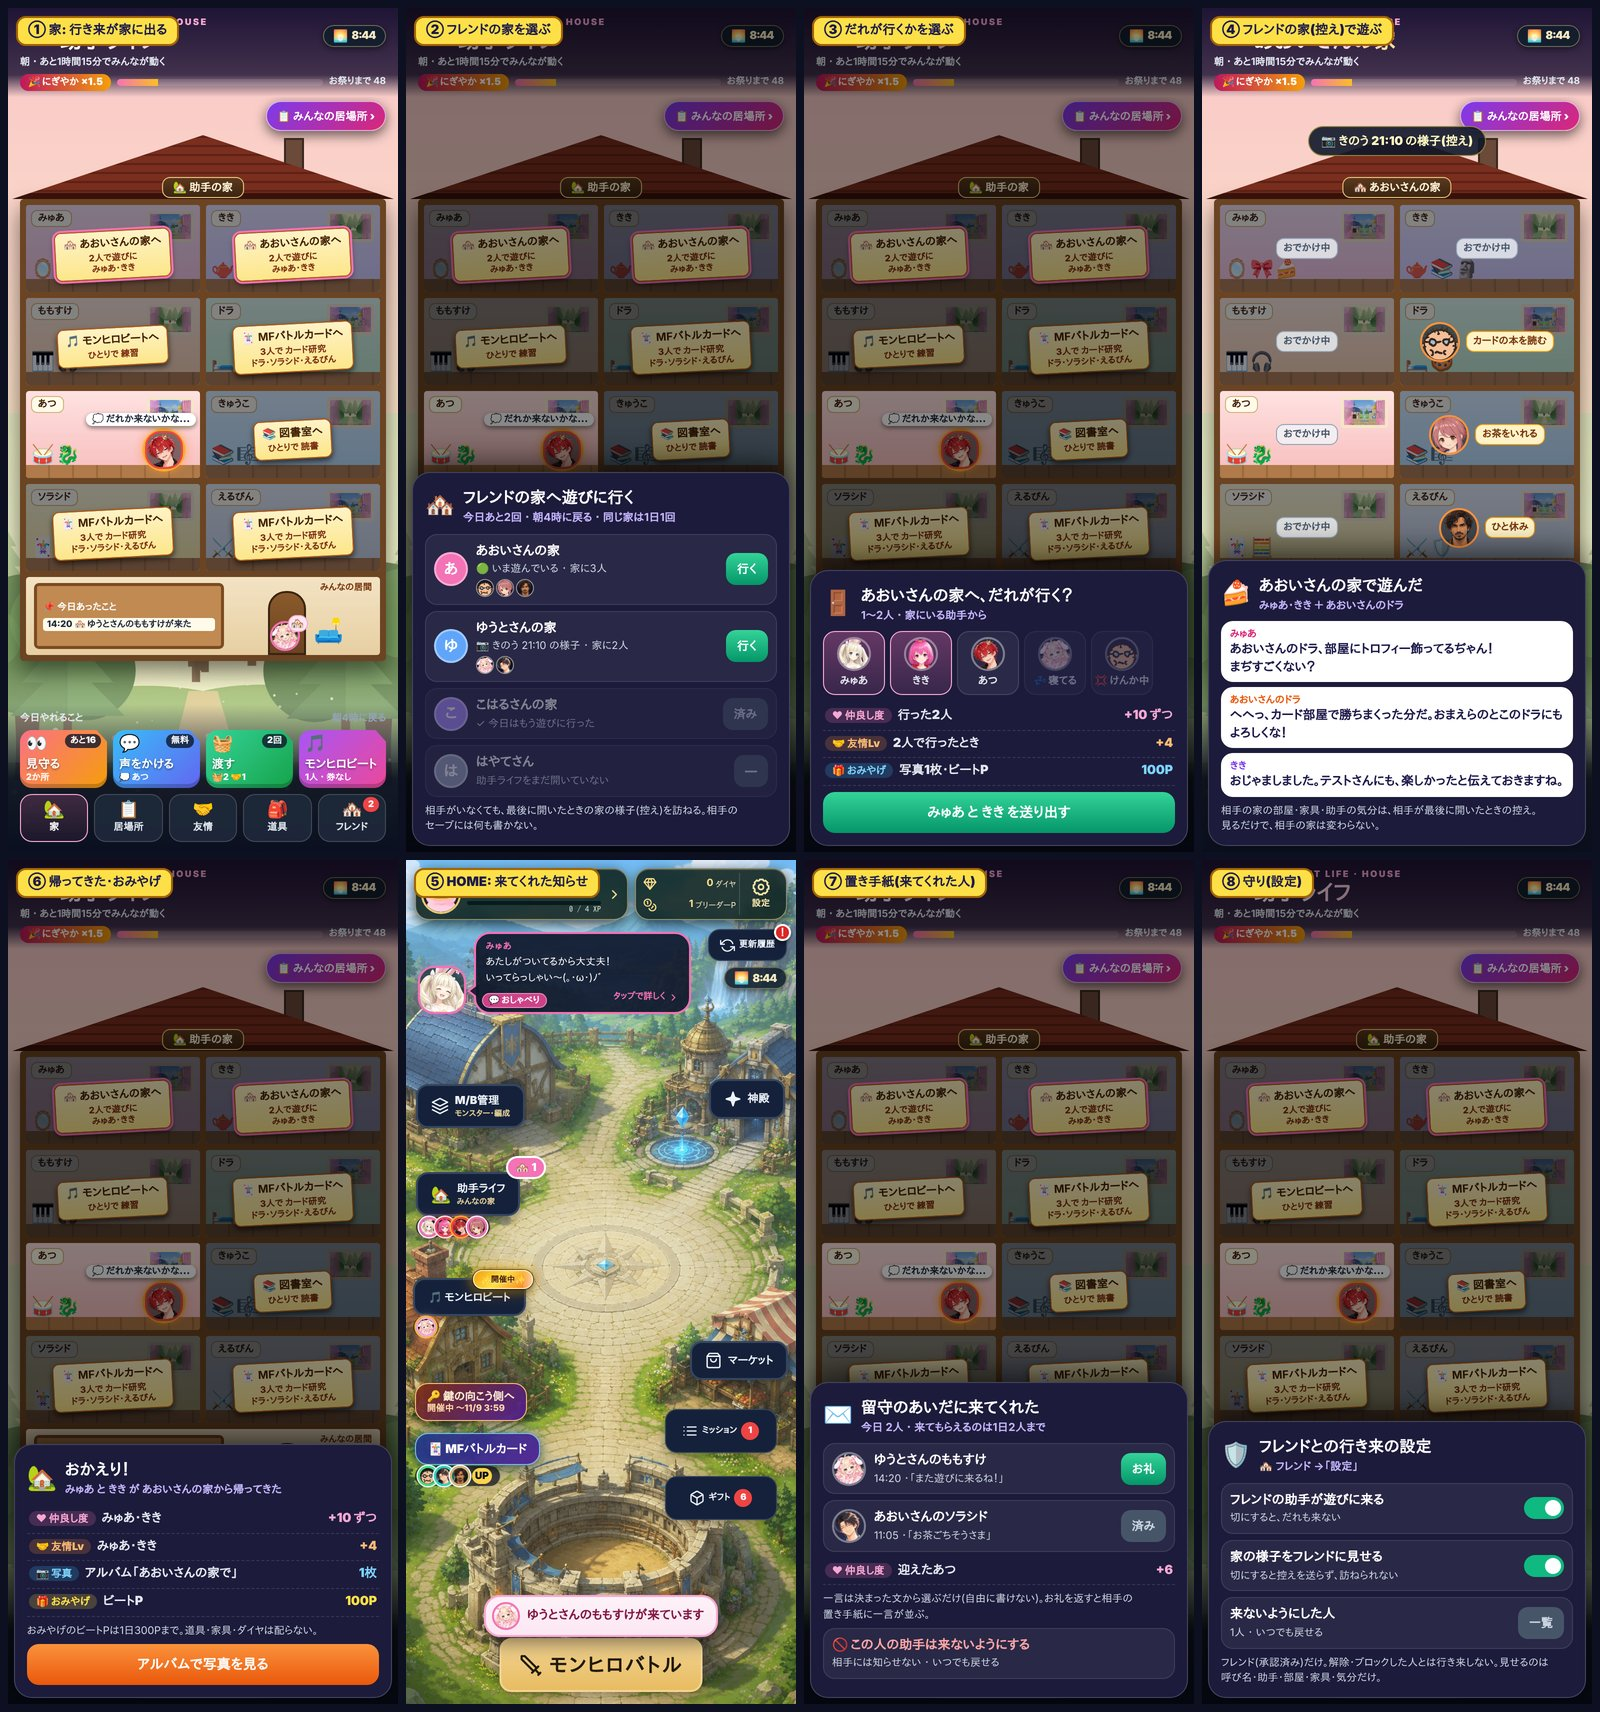
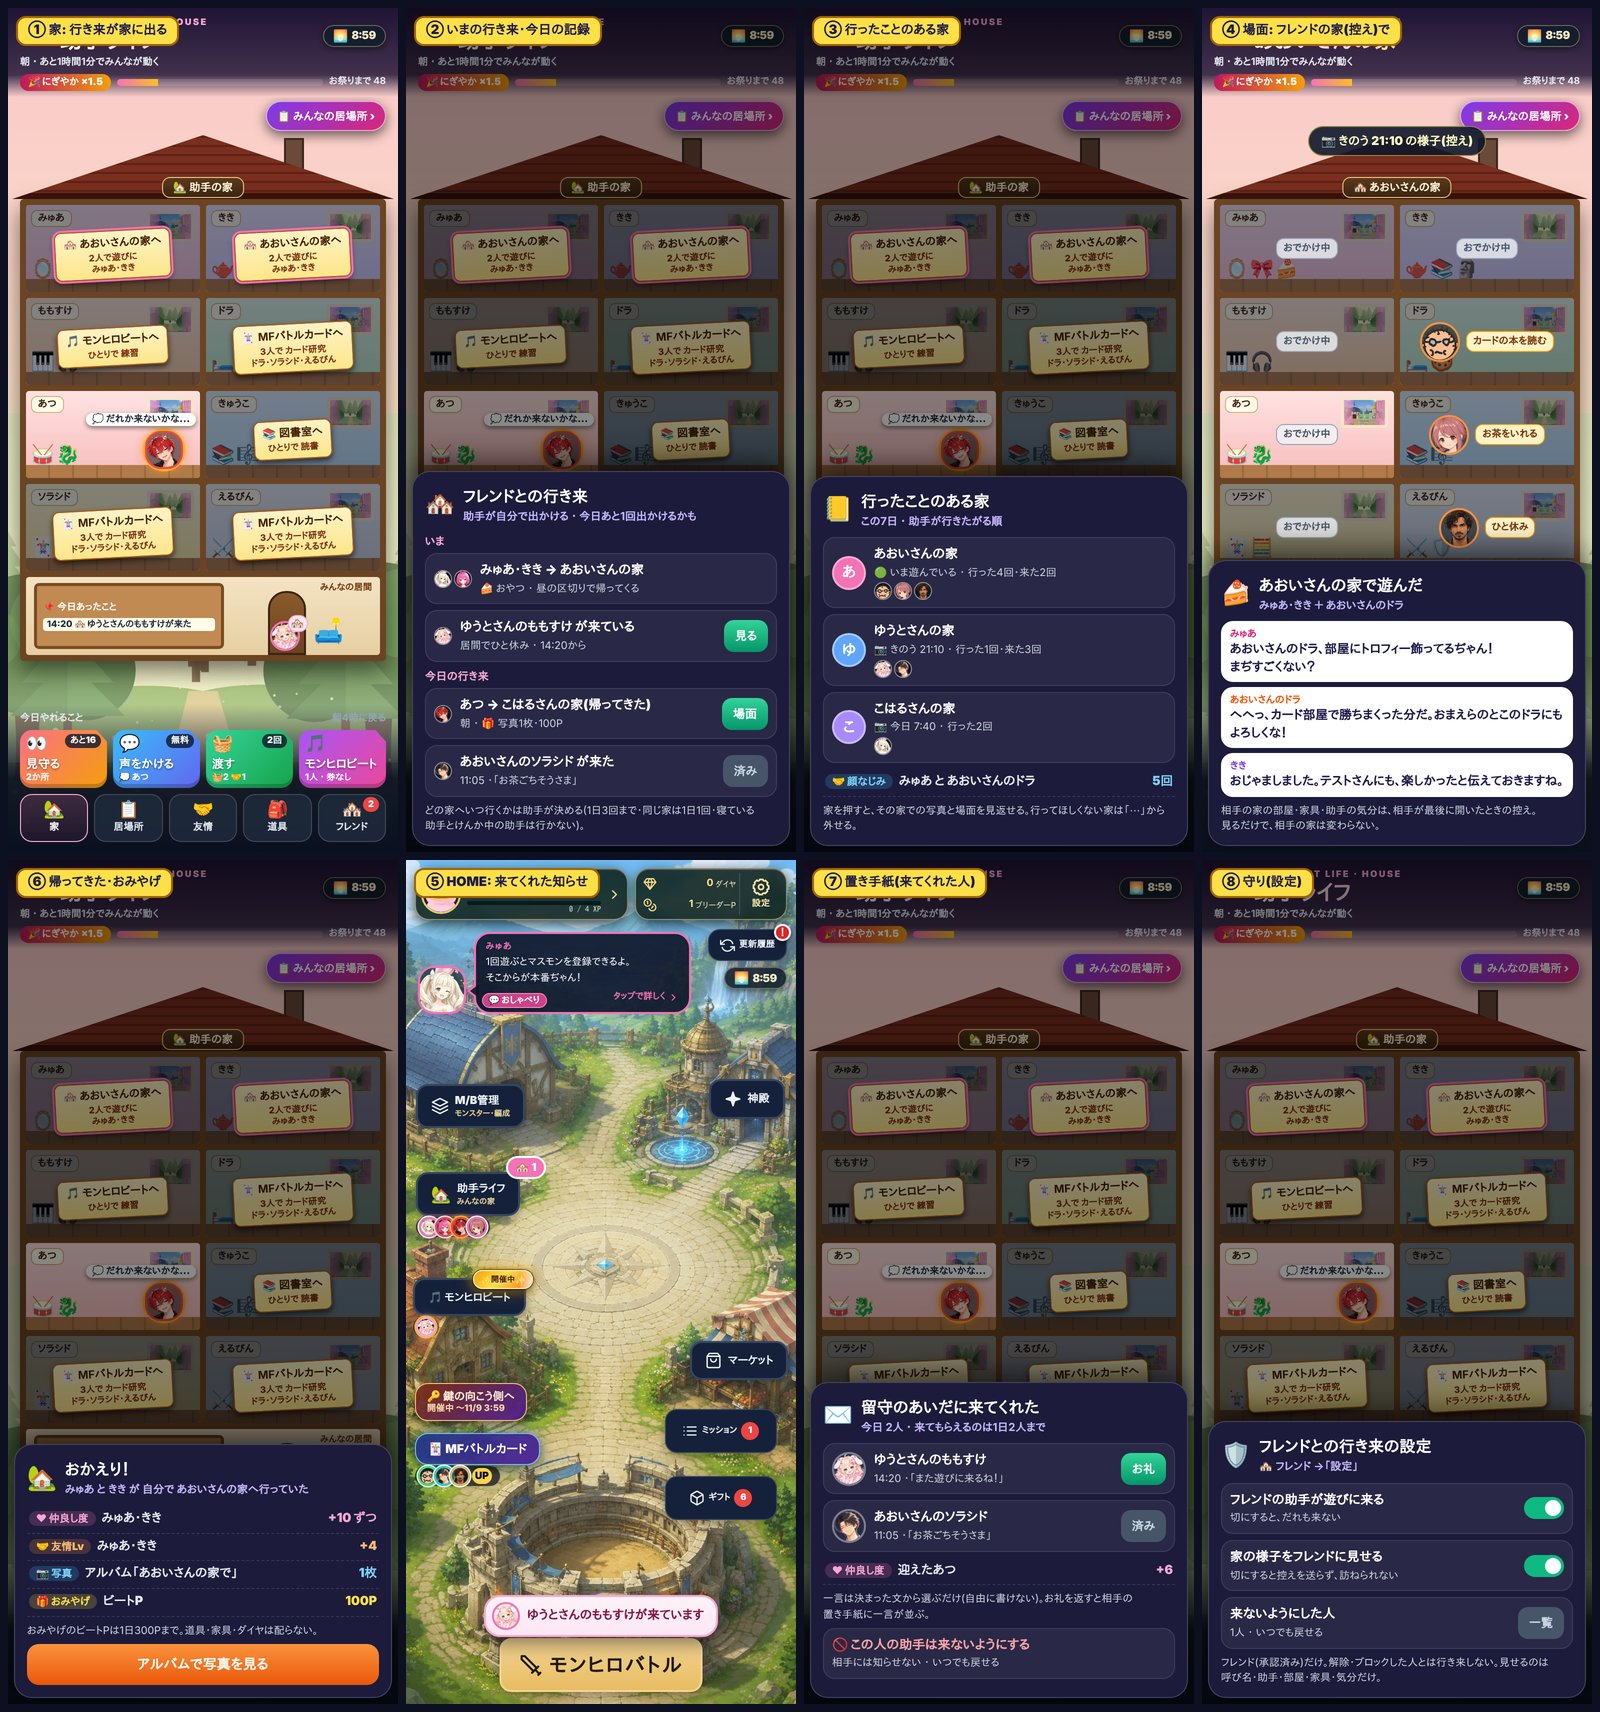
助手ライフ: フレンドの行き来の案に社長の選び(❷ B 助手が自分で行く)を入れ、止め絵②③を作り直す
Claude-Session: https://claude.ai/code/session_0113GBaCzXLfSE2mAxwtDgRg

diff --git a/docs/progress/assistant-peer/friend/shoot.js b/docs/progress/assistant-peer/friend/shoot.js
@@ -57,27 +57,23 @@ const face = (id) => `<img src="${'__F_' + id}">`;
 const av = (ch, c) => `<span class="fv-av" style="background:${c}">${ch}</span>`;
 html.pick = (land) => `
 <div class="fv-sheet" style="${land ? 'left:auto;right:6px;top:6px;width:430px' : ''}">
-  <div class="fv-h"><i>🏘</i><div><b>フレンドの家へ遊びに行く</b><small>今日あと2回 ・ 朝4時に戻る ・ 同じ家は1日1回</small></div></div>
-  <div class="fv-row">${av('あ', '#f472b6')}<div class="fv-mid"><b>あおいさんの家</b><small>🟢 いま遊んでいる ・ 家に3人</small><div class="fv-faces">${face('dra')}${face('kyuko')}${face('erubin')}</div></div><span class="fv-btn">行く</span></div>
-  <div class="fv-row">${av('ゆ', '#60a5fa')}<div class="fv-mid"><b>ゆうとさんの家</b><small>📷 きのう 21:10 の様子 ・ 家に2人</small><div class="fv-faces">${face('momosuke')}${face('sorashido')}</div></div><span class="fv-btn">行く</span></div>
-  <div class="fv-row off">${av('こ', '#a78bfa')}<div class="fv-mid"><b>こはるさんの家</b><small>✓ 今日はもう遊びに行った</small></div><span class="fv-btn gray">済み</span></div>
-  ${land ? '' : `<div class="fv-row off">${av('は', '#94a3b8')}<div class="fv-mid"><b>はやてさん</b><small>助手ライフをまだ開いていない</small></div><span class="fv-btn gray">—</span></div>`}
-  <div class="fv-note">相手がいなくても、最後に開いたときの家の様子(控え)を訪ねる。相手のセーブには何も書かない。</div>
+  <div class="fv-h"><i>🏘</i><div><b>フレンドとの行き来</b><small>助手が自分で出かける ・ 今日あと1回出かけるかも</small></div></div>
+  <div style="font-size:11px;font-weight:900;color:#f9a8d4;margin:2px 0 4px">いま</div>
+  <div class="fv-row"><div class="fv-faces" style="margin:0">${face('mua')}${face('kiki')}</div><div class="fv-mid"><b>みゅあ・きき → あおいさんの家</b><small>🍰 おやつ ・ 昼の区切りで帰ってくる</small></div></div>
+  <div class="fv-row"><div class="fv-faces" style="margin:0">${face('momosuke')}</div><div class="fv-mid"><b>ゆうとさんのももすけ が来ている</b><small>居間でひと休み ・ 14:20から</small></div><span class="fv-btn">見る</span></div>
+  <div style="font-size:11px;font-weight:900;color:#f9a8d4;margin:6px 0 4px">今日の行き来</div>
+  <div class="fv-row"><div class="fv-faces" style="margin:0">${face('atsu')}</div><div class="fv-mid"><b>あつ → こはるさんの家(帰ってきた)</b><small>朝 ・ 🎁 写真1枚・100P</small></div><span class="fv-btn">場面</span></div>
+  ${land ? '' : `<div class="fv-row"><div class="fv-faces" style="margin:0">${face('sorashido')}</div><div class="fv-mid"><b>あおいさんのソラシド が来た</b><small>11:05 ・「お茶ごちそうさま」</small></div><span class="fv-btn gray">済み</span></div>`}
+  <div class="fv-note">どの家へいつ行くかは助手が決める(1日3回まで・同じ家は1日1回・寝ている助手とけんか中の助手は行かない)。</div>
 </div>`;
 html.who = (land) => `
 <div class="fv-sheet" style="${land ? 'left:auto;right:6px;top:6px;width:430px' : ''}">
-  <div class="fv-h"><i>🚪</i><div><b>あおいさんの家へ、だれが行く？</b><small>1〜2人 ・ 家にいる助手から</small></div></div>
-  <div class="fv-chips">
-    <span class="fv-chip on">${face('mua')}みゅあ</span><span class="fv-chip on">${face('kiki')}きき</span>
-    <span class="fv-chip">${face('atsu')}あつ</span><span class="fv-chip off">${face('momosuke')}💤 寝てる</span>
-    <span class="fv-chip off">${face('dra')}💢 けんか中</span>
-  </div>
-  <div style="margin-top:8px">
-    <div class="fv-gain"><span><em style="background:#f472b633" class="fv-pink">♥ 仲良し度</em>行った2人</span><span class="fv-pink">+10 ずつ</span></div>
-    <div class="fv-gain"><span><em style="background:#fb923c33" class="fv-orange">🤝 友情Lv</em>2人で行ったとき</span><span class="fv-orange">+4</span></div>
-    <div class="fv-gain"><span><em style="background:#38bdf833" class="fv-sky">🎁 おみやげ</em>写真1枚・ビートP</span><span class="fv-sky">100P</span></div>
-  </div>
-  <span class="fv-big">みゅあ と きき を送り出す</span>
+  <div class="fv-h"><i>📒</i><div><b>行ったことのある家</b><small>この7日 ・ 助手が行きたがる順</small></div></div>
+  <div class="fv-row">${av('あ', '#f472b6')}<div class="fv-mid"><b>あおいさんの家</b><small>🟢 いま遊んでいる ・ 行った4回・来た2回</small><div class="fv-faces">${face('dra')}${face('kyuko')}${face('erubin')}</div></div></div>
+  <div class="fv-row">${av('ゆ', '#60a5fa')}<div class="fv-mid"><b>ゆうとさんの家</b><small>📷 きのう 21:10 ・ 行った1回・来た3回</small><div class="fv-faces">${face('momosuke')}${face('sorashido')}</div></div></div>
+  <div class="fv-row">${av('こ', '#a78bfa')}<div class="fv-mid"><b>こはるさんの家</b><small>📷 今日 7:40 ・ 行った2回</small><div class="fv-faces">${face('mua')}</div></div></div>
+  <div class="fv-gain"><span><em style="background:#38bdf833" class="fv-sky">🤝 顔なじみ</em>みゅあ と あおいさんのドラ</span><span class="fv-sky">5回</span></div>
+  <div class="fv-note">家を押すと、その家での写真と場面を見返せる。行ってほしくない家は「⋯」から外せる。</div>
 </div>`;
 html.visit = (land) => `
 <div class="fv-banner" style="${land ? 'top:12px;left:300px' : 'top:118px'}">📷 きのう 21:10 の様子(控え)</div>
@@ -90,7 +86,7 @@ html.visit = (land) => `
 </div>`;
 html.back = (land) => `
 <div class="fv-sheet" style="${land ? 'left:auto;right:6px;top:6px;width:430px' : ''}">
-  <div class="fv-h"><i>🏡</i><div><b>おかえり！</b><small>みゅあ と きき が あおいさんの家から帰ってきた</small></div></div>
+  <div class="fv-h"><i>🏡</i><div><b>おかえり！</b><small>みゅあ と きき が 自分で あおいさんの家へ行っていた</small></div></div>
   <div class="fv-gain"><span><em style="background:#f472b633" class="fv-pink">♥ 仲良し度</em>みゅあ・きき</span><span class="fv-pink">+10 ずつ</span></div>
   <div class="fv-gain"><span><em style="background:#fb923c33" class="fv-orange">🤝 友情Lv</em>みゅあ・きき</span><span class="fv-orange">+4</span></div>
   <div class="fv-gain"><span><em style="background:#38bdf833" class="fv-sky">📷 写真</em>アルバム「あおいさんの家で」</span><span class="fv-sky">1枚</span></div>
@@ -178,8 +174,8 @@ async function main() {
     }
     await openHouse(page); await houseMods(page, F);
     await overlay(page, '<span class="fv-tag">① 家: 行き来が家に出る</span>'); await shot(page, `${v.id}-1-house`);
-    await overlay(page, fill(dim + '<span class="fv-tag">② フレンドの家を選ぶ</span>' + html.pick(v.land), F)); await shot(page, `${v.id}-2-pick`);
-    await overlay(page, fill(dim + '<span class="fv-tag">③ だれが行くかを選ぶ</span>' + html.who(v.land), F)); await shot(page, `${v.id}-3-who`);
+    await overlay(page, fill(dim + '<span class="fv-tag">② いまの行き来・今日の記録</span>' + html.pick(v.land), F)); await shot(page, `${v.id}-2-pick`);
+    await overlay(page, fill(dim + '<span class="fv-tag">③ 行ったことのある家</span>' + html.who(v.land), F)); await shot(page, `${v.id}-3-who`);
     // フレンドの家(控え): 題を差しかえ、部屋の札を相手の様子に
     const undo = await page.evaluate((F) => {
       const keep = [];
@@ -204,7 +200,7 @@ async function main() {
       window.__fvKeep = keep; return true;
     }, F);
     await page.evaluate(() => document.querySelectorAll('[data-fv-icon]').forEach(e => e.style.display = 'none'));
-    await overlay(page, fill('<span class="fv-tag">④ フレンドの家(控え)で遊ぶ</span>' + html.visit(v.land), F)); await shot(page, `${v.id}-4-visit`);
+    await overlay(page, fill('<span class="fv-tag">④ 場面: フレンドの家(控え)で</span>' + html.visit(v.land), F)); await shot(page, `${v.id}-4-visit`);
     await page.evaluate(() => { for (const [e, v, k] of window.__fvKeep || []) { if (k === 'html') e.innerHTML = v; else if (k === 'disp') e.style.display = v; else e.textContent = v; } document.querySelectorAll('.fv-room').forEach(e => e.remove()); document.querySelectorAll('[data-fv-icon]').forEach(e => e.style.display = ''); });
     await overlay(page, fill(dim + '<span class="fv-tag">⑥ 帰ってきた・おみやげ</span>' + html.back(v.land), F)); await shot(page, `${v.id}-6-back`);
     await overlay(page, fill(dim + '<span class="fv-tag">⑦ 置き手紙(来てくれた人)</span>' + html.letters(v.land), F)); await shot(page, `${v.id}-7-letters`);

diff --git a/docs/progress/assistant-peer/FRIEND-VISIT-PLAN.md b/docs/progress/assistant-peer/FRIEND-VISIT-PLAN.md
@@ -2,6 +2,22 @@
 
 > **無料枠に収まるか: 収まる。** 今の約700人・その5倍までは、ふつうの遊び方で送り出し(egress)が無料枠の約5〜26%、DB は約1〜2%、Realtime と Edge Function は使わない(0%)。10倍で毎日みんなが目いっぱい遊ぶと送り出しが枠を超えうるので、サーバー側のスイッチ1つで「間引く・止める」に切り替える(0章)。
 
+## 社長の選び(2026-11-08・窓口から)と「これで作る」
+
+❶ A 控えを訪ねる/❷ **B 助手が自分でときどき行く**(プレイヤーは送り出さない)/❸ A(❷が B なので、実質「相手の助手が自分で来る」形にそろえる)/❹ A 同じ助手どうしも会う/❺ A 写真1枚+ビートP 100(1日 300P まで)/❻ A 控えに★も写す。
+Supabase: 今月の送り出し量が分かるまでは、最初から `thin` で出せる作りにする。SQL は流す前に本文を窓口へ(1回にまとめる)。公開前に縦・横・🔄横で撮る → ミハリに撮り直し → 更新履歴の文を窓口へ。
+
+### ❷ B にしたので変わること(1-1 の手順はこれで置きかえる)
+
+- **だれが・どの家へ・いつ行くかは助手が決める。** 時間の区切り(朝・昼・午後・夕方・夜)で居場所を決めるとき、家にいて手が空いている助手が、ときどき「フレンドの家へ」を選ぶ(人なつこい助手ほど行きやすい・夜型の助手は夜に行きやすい)
+- 上限は A のときと同じ考えを助手側の決まりにする: 自分の助手みんなで1日3回まで/同じ家は1日1回/1回に1〜2人/寝ている助手・けんか中の助手(`assistantLifeRelPending()`)は行かない/行き来を切にしている人・来ないようにした家・14日より古い控えの家は選ばない。`thin` のときは1日1回まで
+- 行き先の選び方: 顔なじみの多い家・最近開いた家ほど選ばれやすい(同じ家ばかりにならないよう、前の日に行った家は下げる)
+- プレイヤーは**見る**: 部屋の札「🏘 あおいさんの家へ」(①)/「🏘 フレンド」のページで「いま」と「今日の行き来」(②)/行ったことのある家と顔なじみ(③)/場面(④)/おかえりとおみやげ(⑥)
+- ごほうびは、その行き来の場面を見たとき(見守るのと同じ)。見ないまま日が変わっても、写真とおみやげは置き手紙から受け取れる(仲良し度・友情Lv はその日のうちに見たときだけ)
+- 「行ってほしくない家」はプレイヤーが外せる(③の「⋯」)。外した家には行かない・その家の助手も来ない
+
+止め絵の②③はこの形に作り直した(②「いまの行き来・今日の記録」・③「行ったことのある家」)。
+
 担当: 助手部オトズレ(2026-11-08)。社長の依頼「助手ライフの機能を拡張してフレンドのとこに遊びに行けたりフレンドが遊びに来たりとかもいれたい」。
 今回は**案と止め絵だけ**(ゲーム本体・Supabase には触っていない)。作るのは社長の A/B と「これで作る」のあと。
 
